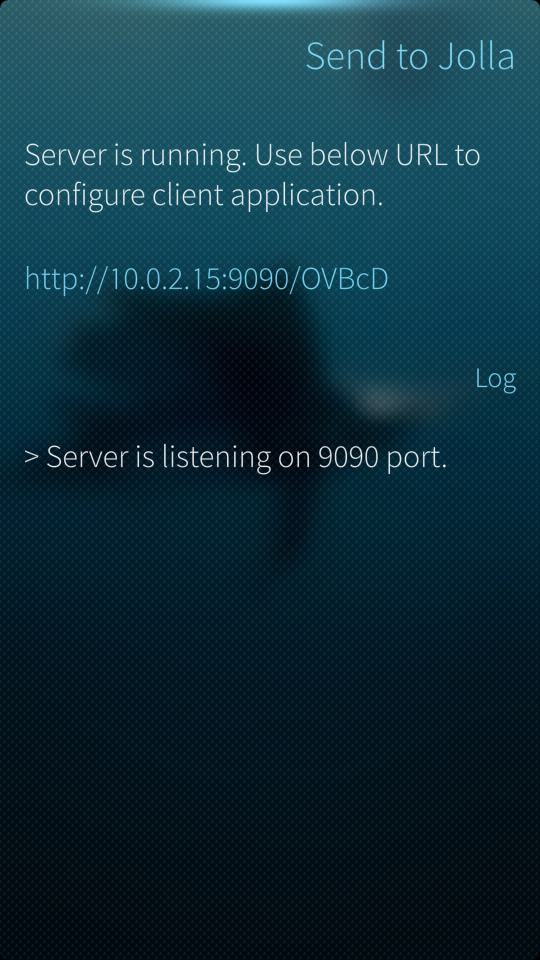
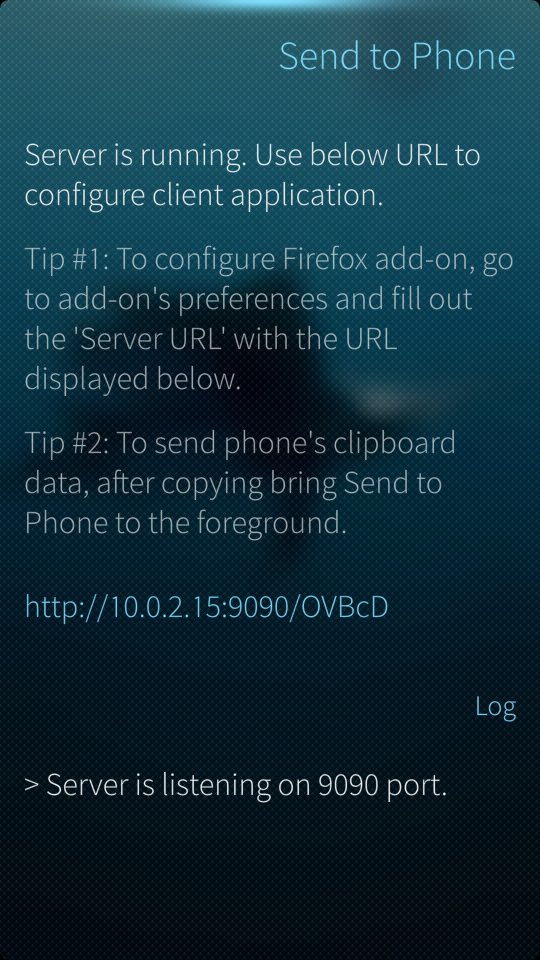
[Sailfish] App is renamed to 'Send to Phone'

diff --git a/sailfish/qml/sailfish/FirstPage.qml b/sailfish/qml/sailfish/FirstPage.qml
@@ -1,7 +1,7 @@
 /*
   Copyright (C) 2015 Michal Kosciesza <michal@mkiol.net>
 
-  This file is part of SendToJolla application.
+  This file is part of SendToPhone application.
 
   This Source Code Form is subject to the terms of
   the Mozilla Public License, v.2.0. If a copy of
@@ -35,7 +35,7 @@ Page {
             }
 
             PageHeader {
-                title: qsTr("Send to Jolla")
+                title: APP_NAME
             }
 
             Label {

diff --git a/sailfish/qml/sailfish/AboutPage.qml b/sailfish/qml/sailfish/AboutPage.qml
@@ -1,7 +1,7 @@
 /*
   Copyright (C) 2015 Michal Kosciesza <michal@mkiol.net>
 
-  This file is part of SendToJolla application.
+  This file is part of SendToPhone application.
 
   This Source Code Form is subject to the terms of
   the Mozilla Public License, v.2.0. If a copy of

diff --git a/sailfish/qml/sailfish/CoverPage.qml b/sailfish/qml/sailfish/CoverPage.qml
@@ -1,7 +1,7 @@
 /*
   Copyright (C) 2015 Michal Kosciesza <michal@mkiol.net>
 
-  This file is part of SendToJolla application.
+  This file is part of SendToPhone application.
 
   This Source Code Form is subject to the terms of
   the Mozilla Public License, v.2.0. If a copy of

diff --git a/sailfish/qml/sailfish/Menu.qml b/sailfish/qml/sailfish/Menu.qml
@@ -1,7 +1,7 @@
 /*
   Copyright (C) 2015 Michal Kosciesza <michal@mkiol.net>
 
-  This file is part of SendToJolla application.
+  This file is part of SendToPhone application.
 
   This Source Code Form is subject to the terms of
   the Mozilla Public License, v.2.0. If a copy of

diff --git a/sailfish/qml/sailfish/SettingsPage.qml b/sailfish/qml/sailfish/SettingsPage.qml
@@ -1,7 +1,7 @@
 /*
   Copyright (C) 2015 Michal Kosciesza <michal@mkiol.net>
 
-  This file is part of SendToJolla application.
+  This file is part of SendToPhone application.
 
   This Source Code Form is subject to the terms of
   the Mozilla Public License, v.2.0. If a copy of

diff --git a/sailfish/qml/sailfish/main.qml b/sailfish/qml/sailfish/main.qml
@@ -1,7 +1,7 @@
 /*
   Copyright (C) 2015 Michal Kosciesza <michal@mkiol.net>
 
-  This file is part of SendToJolla application.
+  This file is part of SendToPhone application.
 
   This Source Code Form is subject to the terms of
   the Mozilla Public License, v.2.0. If a copy of

diff --git a/sailfish/src/main_sailfish.cpp b/sailfish/src/main_sailfish.cpp
@@ -1,7 +1,7 @@
 /*
   Copyright (C) 2015 Michal Kosciesza <michal@mkiol.net>
 
-  This file is part of SendToJolla application.
+  This file is part of SendToPhone application.
 
   This Source Code Form is subject to the terms of
   the Mozilla Public License, v.2.0. If a copy of
@@ -19,10 +19,10 @@
 #include "server.h"
 #include "settings.h"
 
-static const char *APP_NAME = "Send to Jolla";
+static const char *APP_NAME = "Send to Phone";
 static const char *AUTHOR = "Michal Kosciesza <michal@mkiol.net>";
 static const char *PAGE = "https://github.com/mkiol/SendToJolla";
-static const char *VERSION = "1.1";
+static const char *VERSION = "1.2";
 
 Q_DECL_EXPORT int main(int argc, char *argv[])
 {

diff --git a/sailfish/src/server.cpp b/sailfish/src/server.cpp
@@ -1,7 +1,7 @@
 /*
   Copyright (C) 2015 Michal Kosciesza <michal@mkiol.net>
 
-  This file is part of SendToJolla application.
+  This file is part of SendToPhone application.
 
   This Source Code Form is subject to the terms of
   the Mozilla Public License, v.2.0. If a copy of

diff --git a/sailfish/src/server.h b/sailfish/src/server.h
@@ -1,7 +1,7 @@
 /*
   Copyright (C) 2015 Michal Kosciesza <michal@mkiol.net>
 
-  This file is part of SendToJolla application.
+  This file is part of SendToPhone application.
 
   This Source Code Form is subject to the terms of
   the Mozilla Public License, v.2.0. If a copy of

diff --git a/sailfish/src/settings.cpp b/sailfish/src/settings.cpp
@@ -1,7 +1,7 @@
 /*
   Copyright (C) 2015 Michal Kosciesza <michal@mkiol.net>
 
-  This file is part of SendToJolla application.
+  This file is part of SendToPhone application.
 
   This Source Code Form is subject to the terms of
   the Mozilla Public License, v.2.0. If a copy of

diff --git a/sailfish/src/settings.h b/sailfish/src/settings.h
@@ -1,7 +1,7 @@
 /*
   Copyright (C) 2015 Michal Kosciesza <michal@mkiol.net>
 
-  This file is part of SendToJolla application.
+  This file is part of SendToPhone application.
 
   This Source Code Form is subject to the terms of
   the Mozilla Public License, v.2.0. If a copy of

diff --git a/sailfish/src/utils.cpp b/sailfish/src/utils.cpp
@@ -1,7 +1,7 @@
 /*
   Copyright (C) 2015 Michal Kosciesza <michal@mkiol.net>
 
-  This file is part of SendToJolla application.
+  This file is part of SendToPhone application.
 
   This Source Code Form is subject to the terms of
   the Mozilla Public License, v.2.0. If a copy of
